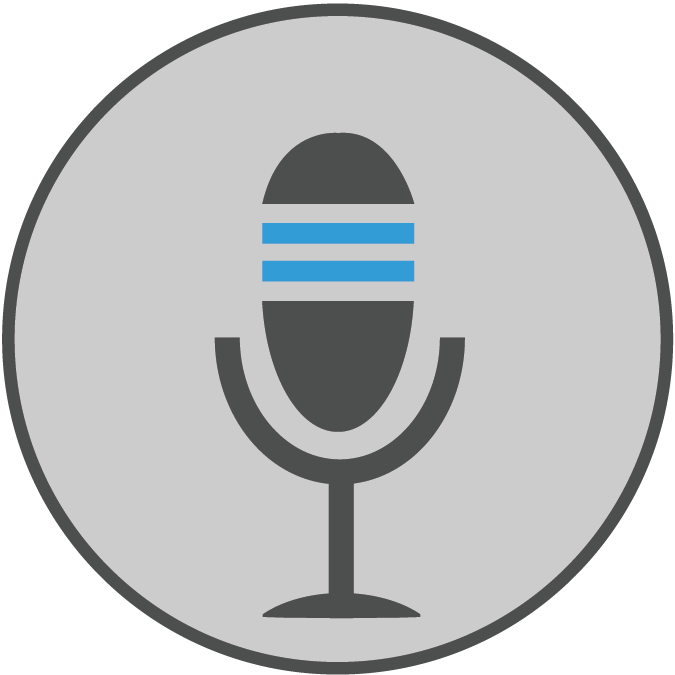
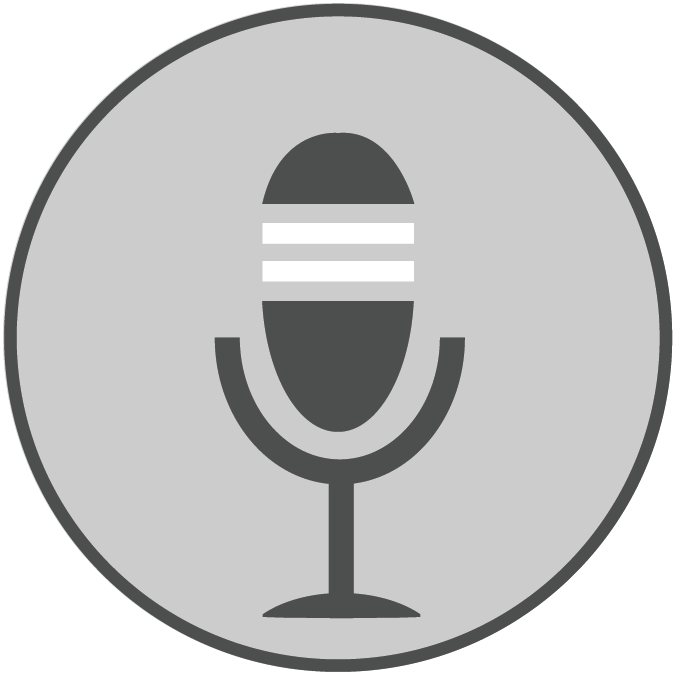
New attachment images.

diff --git a/public/tipfeed.html b/public/tipfeed.html
@@ -83,13 +83,13 @@
               <!--===========================================================================-->
 
               <a id="videoAtt" ng-class="{'disabled-link': !tip.videoUrl}" ng-click="tipfeed.showAttachmentDialog(tip.videoUrl, 'VID')">
-                <img src="./resources/images/videoAtt.png"/>
+                <img src="./resources/images/videoAtt.png" ng-class="{'orange-background':tip.anonymous, 'blue-background':!tip.anonymous}"/>
               </a>
               <a id="imageAtt" ng-class="{'disabled-link': !tip.imageUrl}" ng-click="tipfeed.showAttachmentDialog(tip.imageUrl, 'IMG')">
-                <img src="./resources/images/imageAtt.png"/>
+                <img src="./resources/images/imageAtt.png" ng-class="{'orange-background':tip.anonymous, 'blue-background':!tip.anonymous}"/>
               </a>
               <a id="audioAtt" ng-class="{'disabled-link': !tip.audioUrl}" ng-click="tipfeed.showAttachmentDialog(tip.audioUrl, 'AUDIO')">
-                <img src="./resources/images/audioAtt.png"/>
+                <img src="./resources/images/audioAtt.png" ng-class="{'orange-background':tip.anonymous, 'blue-background':!tip.anonymous}"/>
               </a>
 
             </div>

diff --git a/public/stylesheets/tipfeed-view.css b/public/stylesheets/tipfeed-view.css
@@ -127,6 +127,7 @@ a:visited{
   width:70px;
   margin:0.5em 2em 1em 2em;
   cursor:pointer;
+  border-radius:50%;
 }
 .attachment-dialog {
   width: 100% ;
@@ -290,6 +291,13 @@ a:visited{
 }
 .orange-border{
   border-color:#ff6600;
+}
+.orange-background{
+  background-color:#ff6600;
+}
+
+.blue-background{
+  background-color:#2193f9;
 }
 
 .white{
